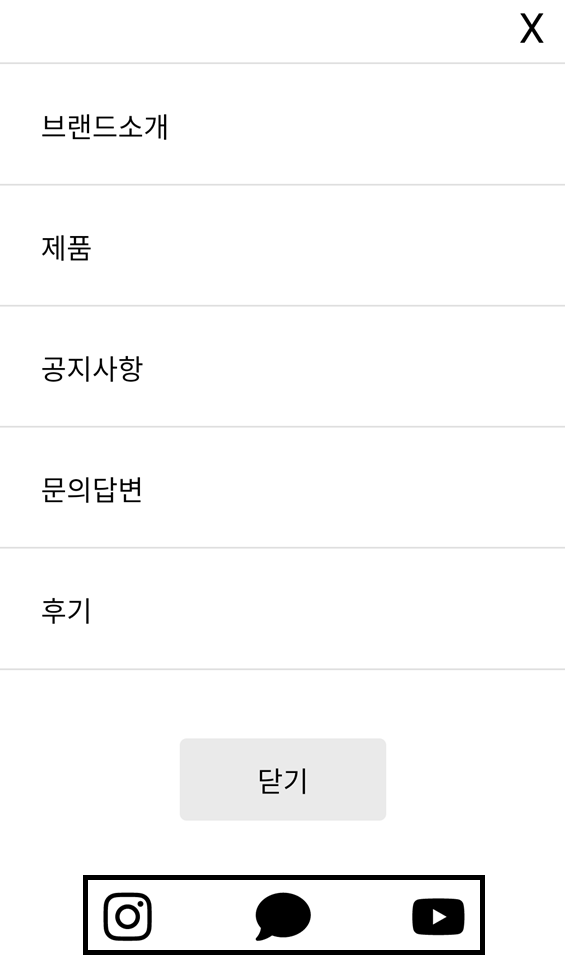
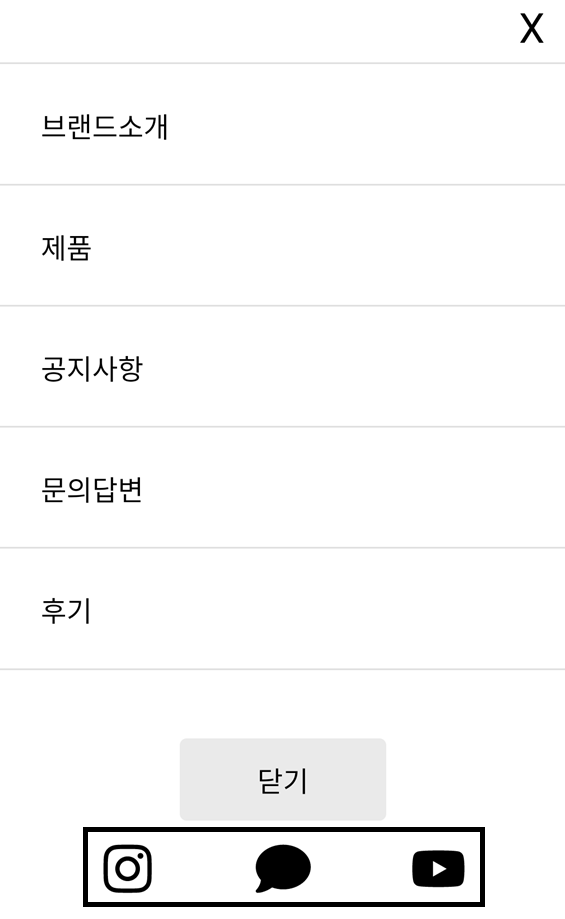
style: 이미지 사이즈 조절

diff --git a/css/content.css b/css/content.css
@@ -100,8 +100,9 @@ section > div {
     background-color: rgba(159, 161, 178, 0.87); z-index: 10000000000000; text-align: center;
 }
 .pf-modal i{font-size: 50px; color: #ffffff; cursor: pointer; position: relative; top: 30px;}
-.modal-content{margin-top: 20px; width: 75%; max-height: 85%; background-color: transparent;
-    position: relative; left: 50%; top: 50%; transform: translate(-50%, -50%); overflow: auto;
+
+.modal-content{margin-top: 20px; max-width: 1400px; width: 85%; max-height: 85%; background-color: transparent;
+    position: relative; left: calc(50% + 6px); top: 50%; transform: translate(-50%, -50%); overflow: auto;
 }
 .pf-modal .modal-content img{width: 100%;height: 100%;display: block; object-fit: cover; object-position: top;}
 .pf-modal .modal-content::-webkit-scrollbar{display: inherit;}
@@ -139,7 +140,7 @@ section > div {
 .modal_main_tit h3{font-size: 45px; font-weight: 500; padding-top: 30px;}
 .modal_main_tit span{padding-top: 30px; display: inline-block; font-size: 15px; font-weight: bold;}
 .project_modal .info{line-height: 1.5;font-size: 20px; padding-top: 30px;}
-.project_modal .main_img{max-width: 60vw; height: 50vh; margin: 0 auto 30px; border: 1px solid #212d42;}
+.project_modal .main_img{max-width: 45vw; height: 50vh; margin: 0 auto 30px; border: 1px solid #212d42;}
 .project_modal .explan_box{background-color: #212d42; padding: 15px; }
 
 .project_modal .info_con{padding-top: 85px;}
@@ -170,12 +171,13 @@ section > div {
 
 .project_modal .modal_img_list li{margin-bottom: 50px;}
 .project_modal .modal_img_list li:last-child{margin-bottom: 0;}
-.project_modal .modal_img_list .img_box{display: flex; flex-wrap: wrap;justify-content: flex-start; width: 100%;}
+.project_modal .modal_img_list .img_box{display: flex; flex-wrap: wrap;justify-content: flex-start; width: 100%;height: 100%; object-fit: contain; object-position: top;}
+.project_modal .modal_img_list .img_box.btm img{object-position: bottom;}
 .project_modal .modal_img_list .img_box img{max-height: 80vh; width: auto; max-width: 100%; border: 1px solid #212d42;}
 .project_modal .modal_img_list span{display: inline-block; text-align: left; width: auto; padding: 5px 10px; border: 2px solid #fff; margin-bottom: 5px;}
 
-.project_modal .modal_img_list .has_2 {display: flex; justify-content: space-between;gap: 2vw;}
-.project_modal .modal_img_list .has_3 {display: flex; justify-content: space-between;gap: 2vw;}
+.project_modal .modal_img_list .has_2 {display: flex; justify-content: space-between;gap: 2vw;max-height: 80vh; overflow: hidden;}
+.project_modal .modal_img_list .has_3 {display: flex; justify-content: space-between;gap: 2vw;max-height: 70vh; overflow: hidden;}
 
 .project_modal .modal_img_list .has_3 .img_box{max-height: 80vh;justify-content: space-between;}
 

diff --git a/index.html b/index.html
@@ -1161,7 +1161,7 @@
                                     <li>
                                         <span>SNS 웹뷰</span>
                                         <div class="has_2">
-                                            <figure class="img_box">
+                                            <figure class="img_box btm">
                                                 <img src="img/d.portfolio/detail/jomalone/02_1.png" alt="sns 아이콘">
                                             </figure>
                                             <figure class="img_box">
